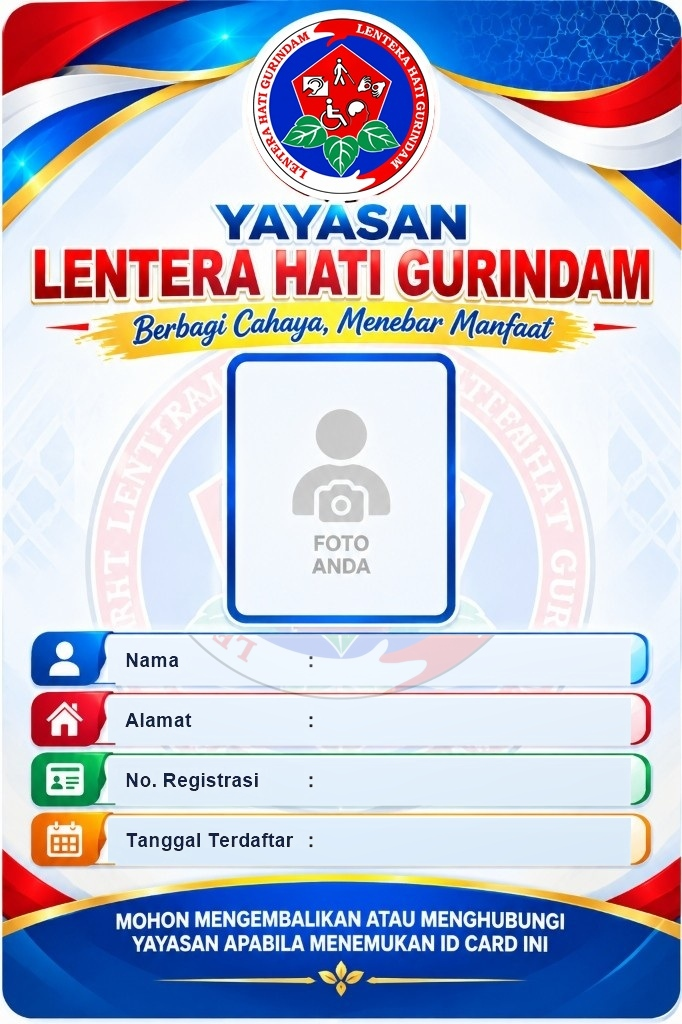
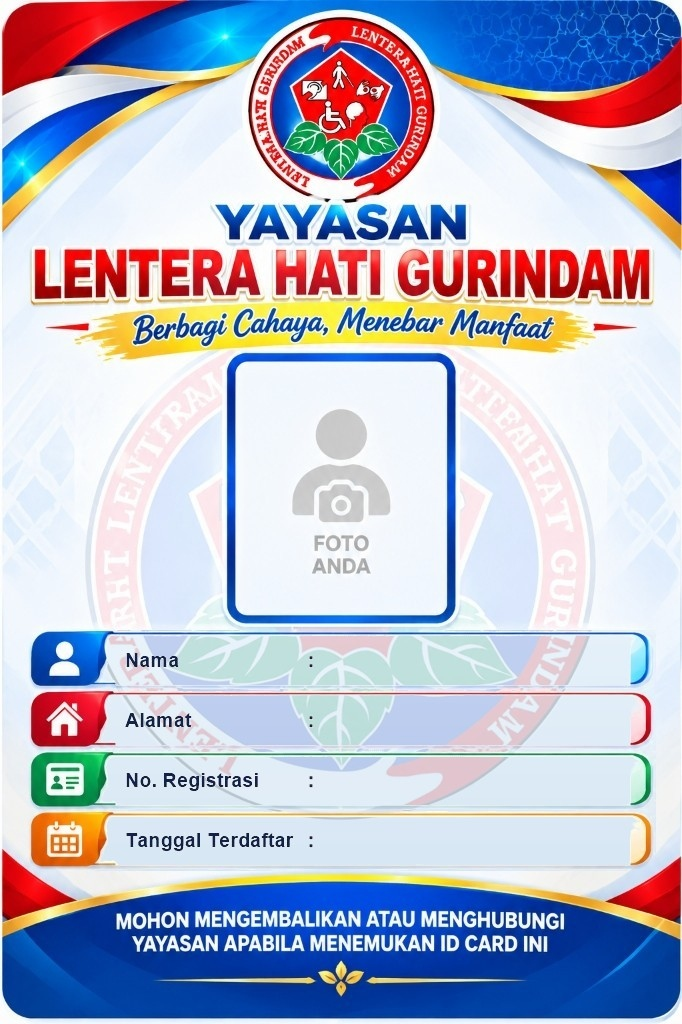
fix: buat latar kapsul data KTA Model Lama 100% transparan menyatu dengan watermark dan pusatkan teks alamat agar tidak menabrak garis bawah

Changed region(s): [[0.154, 0.5938, 0.8622, 0.8125], [0.3387, 0.0, 0.6466, 0.2188], [0.3387, 0.7812, 0.4003, 0.8125]]

diff --git a/js/app.js b/js/app.js
@@ -2409,7 +2409,7 @@ function previewKTA() {
     templateSrc = 'img/idcard-template-back.jpg';
     isBack = true;
   } else if (curModel === 'orig') {
-    templateSrc = 'img/idcard-template-orig.jpg?v=4';
+    templateSrc = 'img/idcard-template-orig.jpg?v=5';
     isModern = false;
   }
 
@@ -2563,7 +2563,7 @@ function generateKTACanvas(id, callback) {
     bgSrc = 'img/idcard-template-back.jpg';
     isBack = true;
   } else if (curModel === 'orig') {
-    bgSrc = 'img/idcard-template-orig.jpg?v=4';
+    bgSrc = 'img/idcard-template-orig.jpg?v=5';
     isOrig = true;
   }
 
@@ -2597,44 +2597,61 @@ function generateKTACanvas(id, callback) {
         const dataStartX = 330;
         const maxValWidth = 295;
 
-        // 1. Nama Lengkap (Huruf kapital, navy berwibawa, tegas & selaras KTA)
+        // 1. Nama Lengkap (Huruf kapital, navy berwibawa, tepat di tengah kapsul)
         ctx.textBaseline = 'middle';
         ctx.fillStyle = '#0A1E3C';
-        ctx.font = 'bold 20px "Plus Jakarta Sans", Arial, sans-serif';
+        ctx.font = 'bold 19px "Plus Jakarta Sans", Arial, sans-serif';
         const namaText = (a.nama || '').toUpperCase();
         if (ctx.measureText(namaText).width > maxValWidth) {
-          ctx.font = 'bold 17px "Plus Jakarta Sans", Arial, sans-serif';
+          ctx.font = 'bold 16.5px "Plus Jakarta Sans", Arial, sans-serif';
         }
         if (ctx.measureText(namaText).width > maxValWidth) {
-          ctx.font = 'bold 15px "Plus Jakarta Sans", Arial, sans-serif';
+          ctx.font = 'bold 14px "Plus Jakarta Sans", Arial, sans-serif';
         }
-        ctx.fillText(namaText, dataStartX, 661.5);
+        ctx.fillText(namaText, dataStartX, 660);
 
-        // 2. Alamat Lengkap (Multi-line auto-fit agar rapi & tidak menabrak titik dua)
+        // 2. Alamat Lengkap (Multi-line auto-fit, vertikal centered, tidak pernah menabrak garis bawah)
         ctx.fillStyle = '#1E293B';
-        ctx.font = 'bold 14px "Plus Jakarta Sans", Arial, sans-serif';
+        ctx.font = 'bold 13.5px "Plus Jakarta Sans", Arial, sans-serif';
         const addrWidth = ctx.measureText(fullAlamat).width;
         if (addrWidth <= maxValWidth) {
           ctx.textBaseline = 'middle';
-          ctx.fillText(fullAlamat, dataStartX, 721.5);
+          ctx.fillText(fullAlamat, dataStartX, 720);
         } else {
-          ctx.font = 'bold 12.5px "Plus Jakarta Sans", Arial, sans-serif';
-          ctx.textBaseline = 'alphabetic';
-          drawKTATextWrapped(ctx, fullAlamat, dataStartX, 712, maxValWidth, 16, 2);
+          ctx.font = 'bold 11px "Plus Jakarta Sans", Arial, sans-serif';
+          ctx.textBaseline = 'middle';
+          const words = fullAlamat.split(' ');
+          let line1 = '';
+          let line2 = '';
+          for (let w of words) {
+            const testLine = line1 ? (line1 + ' ' + w) : w;
+            if (ctx.measureText(testLine).width <= maxValWidth && !line2) {
+              line1 = testLine;
+            } else {
+              line2 = line2 ? (line2 + ' ' + w) : w;
+            }
+          }
+          if (line2) {
+            ctx.fillText(line1, dataStartX, 712);
+            ctx.fillText(line2, dataStartX, 727);
+          } else {
+            ctx.fillText(line1, dataStartX, 720);
+          }
         }
 
         // 3. No. Registrasi (Deep Emerald Navy, huruf renggang khas ID resmi)
         ctx.textAlign = 'left';
         ctx.textBaseline = 'middle';
         ctx.fillStyle = '#065F46';
-        ctx.font = '900 20px "Plus Jakarta Sans", Arial, sans-serif';
+        ctx.font = '900 19px "Plus Jakarta Sans", Arial, sans-serif';
         const regFormatted = noReg.includes('-') ? noReg.replace('-', ' - ') : noReg;
-        ctx.fillText(regFormatted, dataStartX, 781.5);
+        ctx.fillText(regFormatted, dataStartX, 780);
 
         // 4. Tanggal Terdaftar (Tegas & jelas, slate dark selaras)
         ctx.fillStyle = '#1E293B';
-        ctx.font = 'bold 16px "Plus Jakarta Sans", Arial, sans-serif';
-        ctx.fillText(formatDate(a.tglDaftar), dataStartX, 841.5);
+        ctx.textBaseline = 'middle';
+        ctx.font = 'bold 15px "Plus Jakarta Sans", Arial, sans-serif';
+        ctx.fillText(formatDate(a.tglDaftar), dataStartX, 840);
       } else {
         // Modern Redesign Layout (2026)
         // 1. Nama Lengkap

diff --git a/css/style.css b/css/style.css
@@ -1510,7 +1510,7 @@ button, input, select, textarea {
   position: absolute;
   left: 48.5%;
   right: 8.5%;
-  height: 5.5%;
+  height: 5.2%;
   display: flex;
   align-items: center;
   justify-content: flex-start;
@@ -1536,26 +1536,30 @@ button, input, select, textarea {
 }
 
 .idcard-val-alamat {
-  top: 67.7%;
-  height: 5.5%;
-  font-size: 8.5px;
+  top: 67.9%;
+  height: 4.8%;
+  font-size: 8.2px;
   font-weight: 700;
   color: #1E293B;
-  line-height: 1.22;
+  line-height: 1.15;
   white-space: normal;
   word-break: break-word;
   overflow: hidden;
   display: flex;
-  align-items: center;
+  flex-direction: column;
+  justify-content: center;
+  align-items: flex-start;
+  padding-bottom: 0;
 }
 
 .idcard-val-alamat.is-long-addr {
-  font-size: 7.8px;
-  line-height: 1.15;
+  font-size: 7.2px;
+  line-height: 1.12;
 }
 
 .idcard-val-reg {
-  top: 73.6%;
+  top: 73.8%;
+  height: 5.0%;
   font-size: 12.5px;
   font-weight: 900;
   color: #065F46;
@@ -1566,7 +1570,8 @@ button, input, select, textarea {
 }
 
 .idcard-val-tgl {
-  top: 79.4%;
+  top: 79.7%;
+  height: 5.0%;
   font-size: 10.5px;
   font-weight: 800;
   color: #1E293B;

diff --git a/index.html b/index.html
@@ -2676,6 +2676,6 @@
   </div>
 
   <script src="js/html2pdf.bundle.min.js"></script>
-  <script src="js/app.js?v=38.0"></script>
+  <script src="js/app.js?v=39.0"></script>
 </body>
 </html>

diff --git a/sw.js b/sw.js
@@ -1,5 +1,5 @@
 // Service Worker - Lentera Hati Gurindam PWA
-const CACHE_NAME = 'lhg-pwa-v59';
+const CACHE_NAME = 'lhg-pwa-v60';
 const ASSETS_TO_CACHE = [
   './',
   './index.html',
